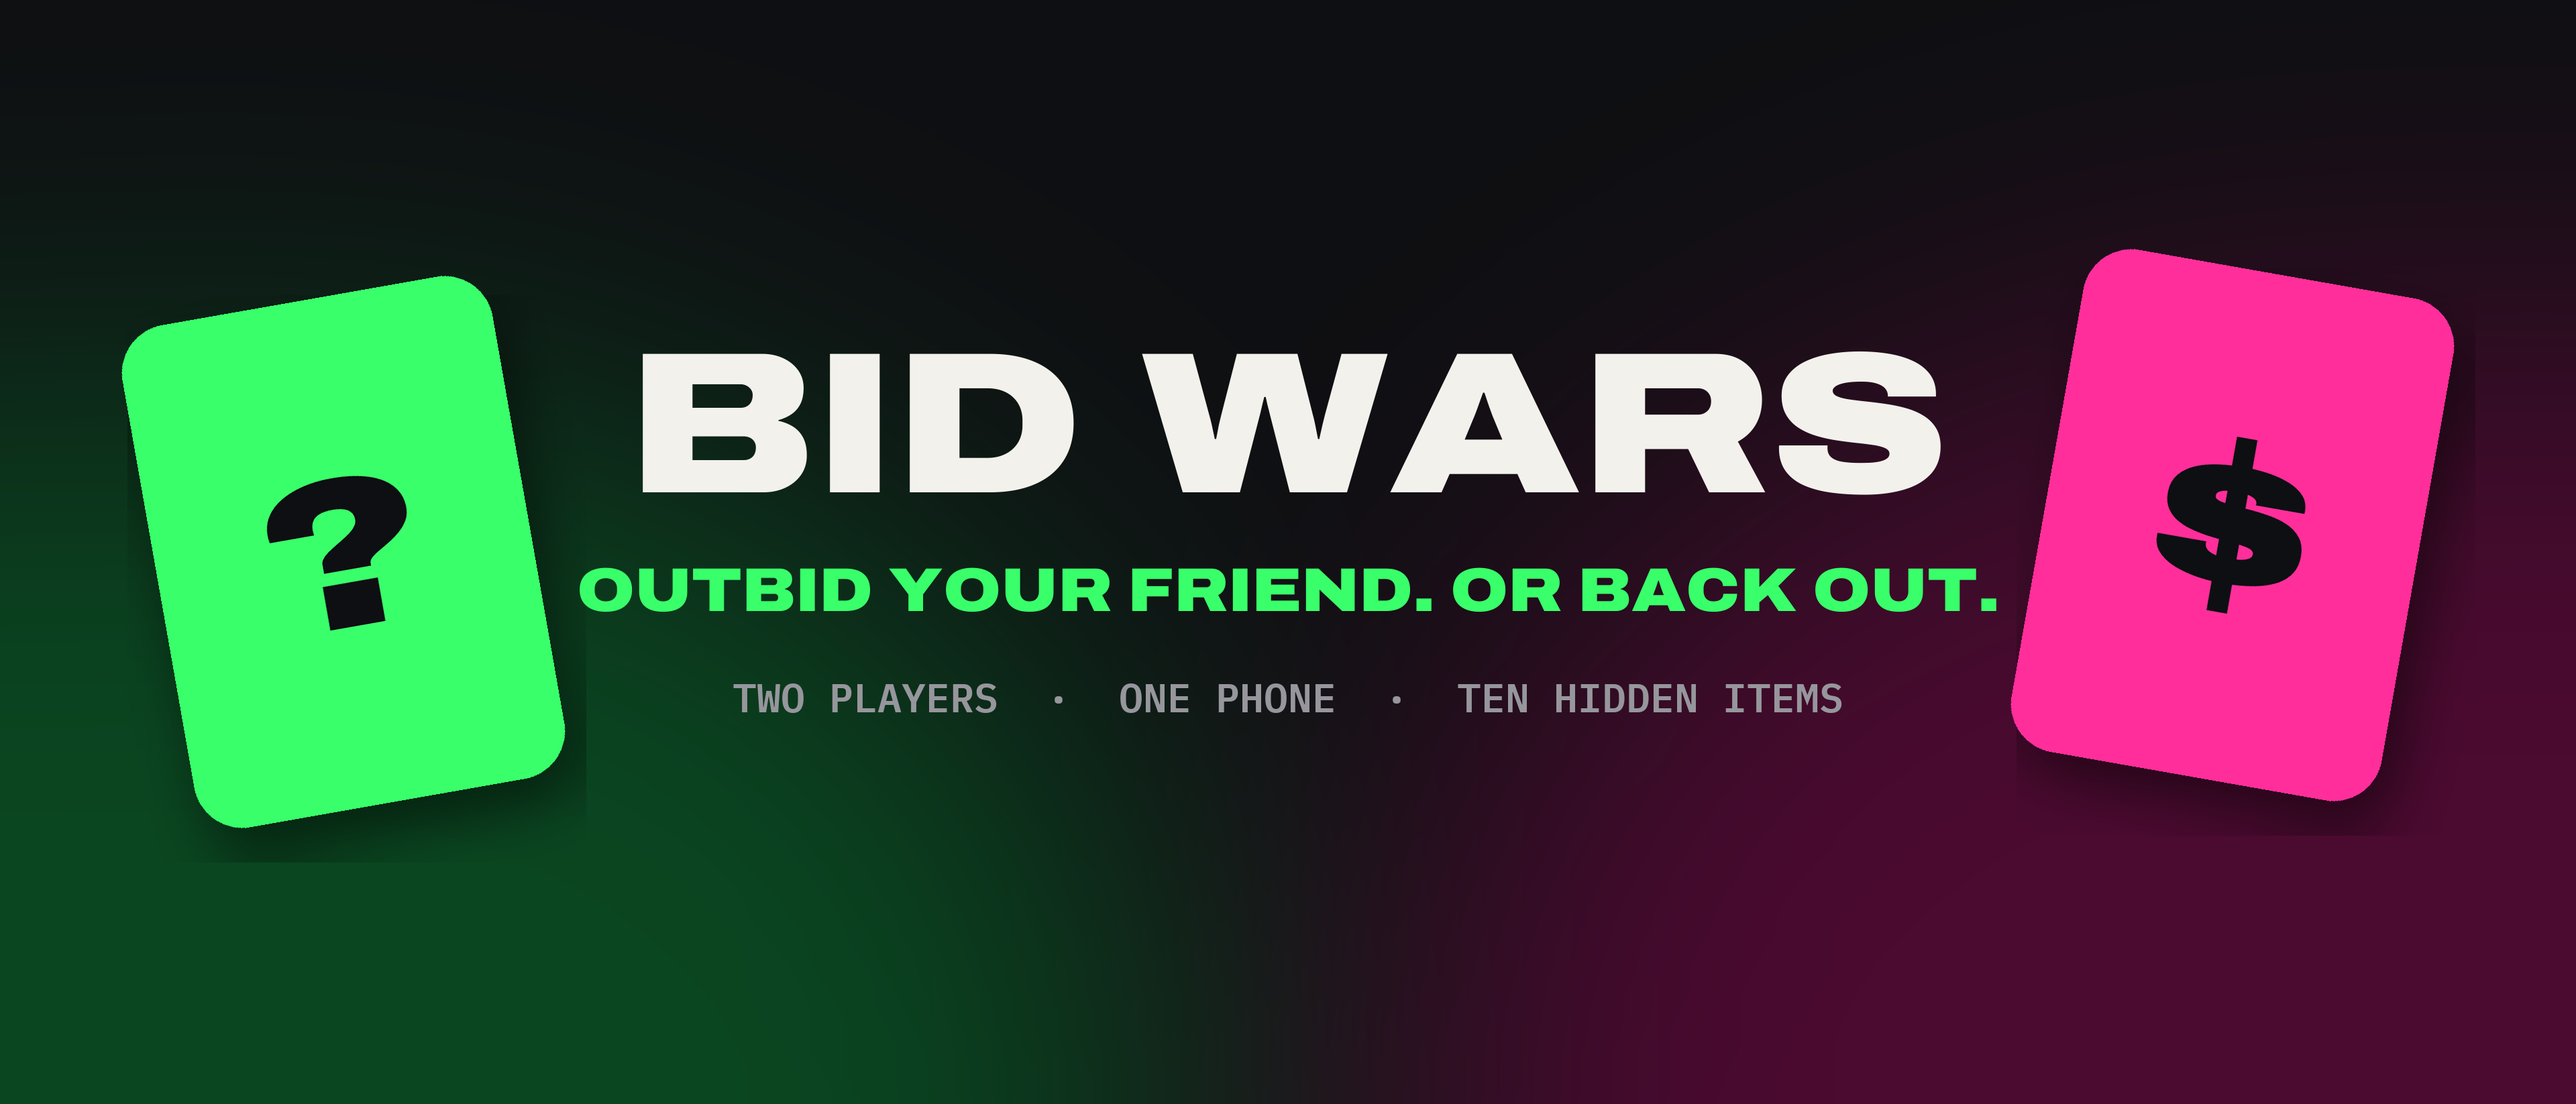
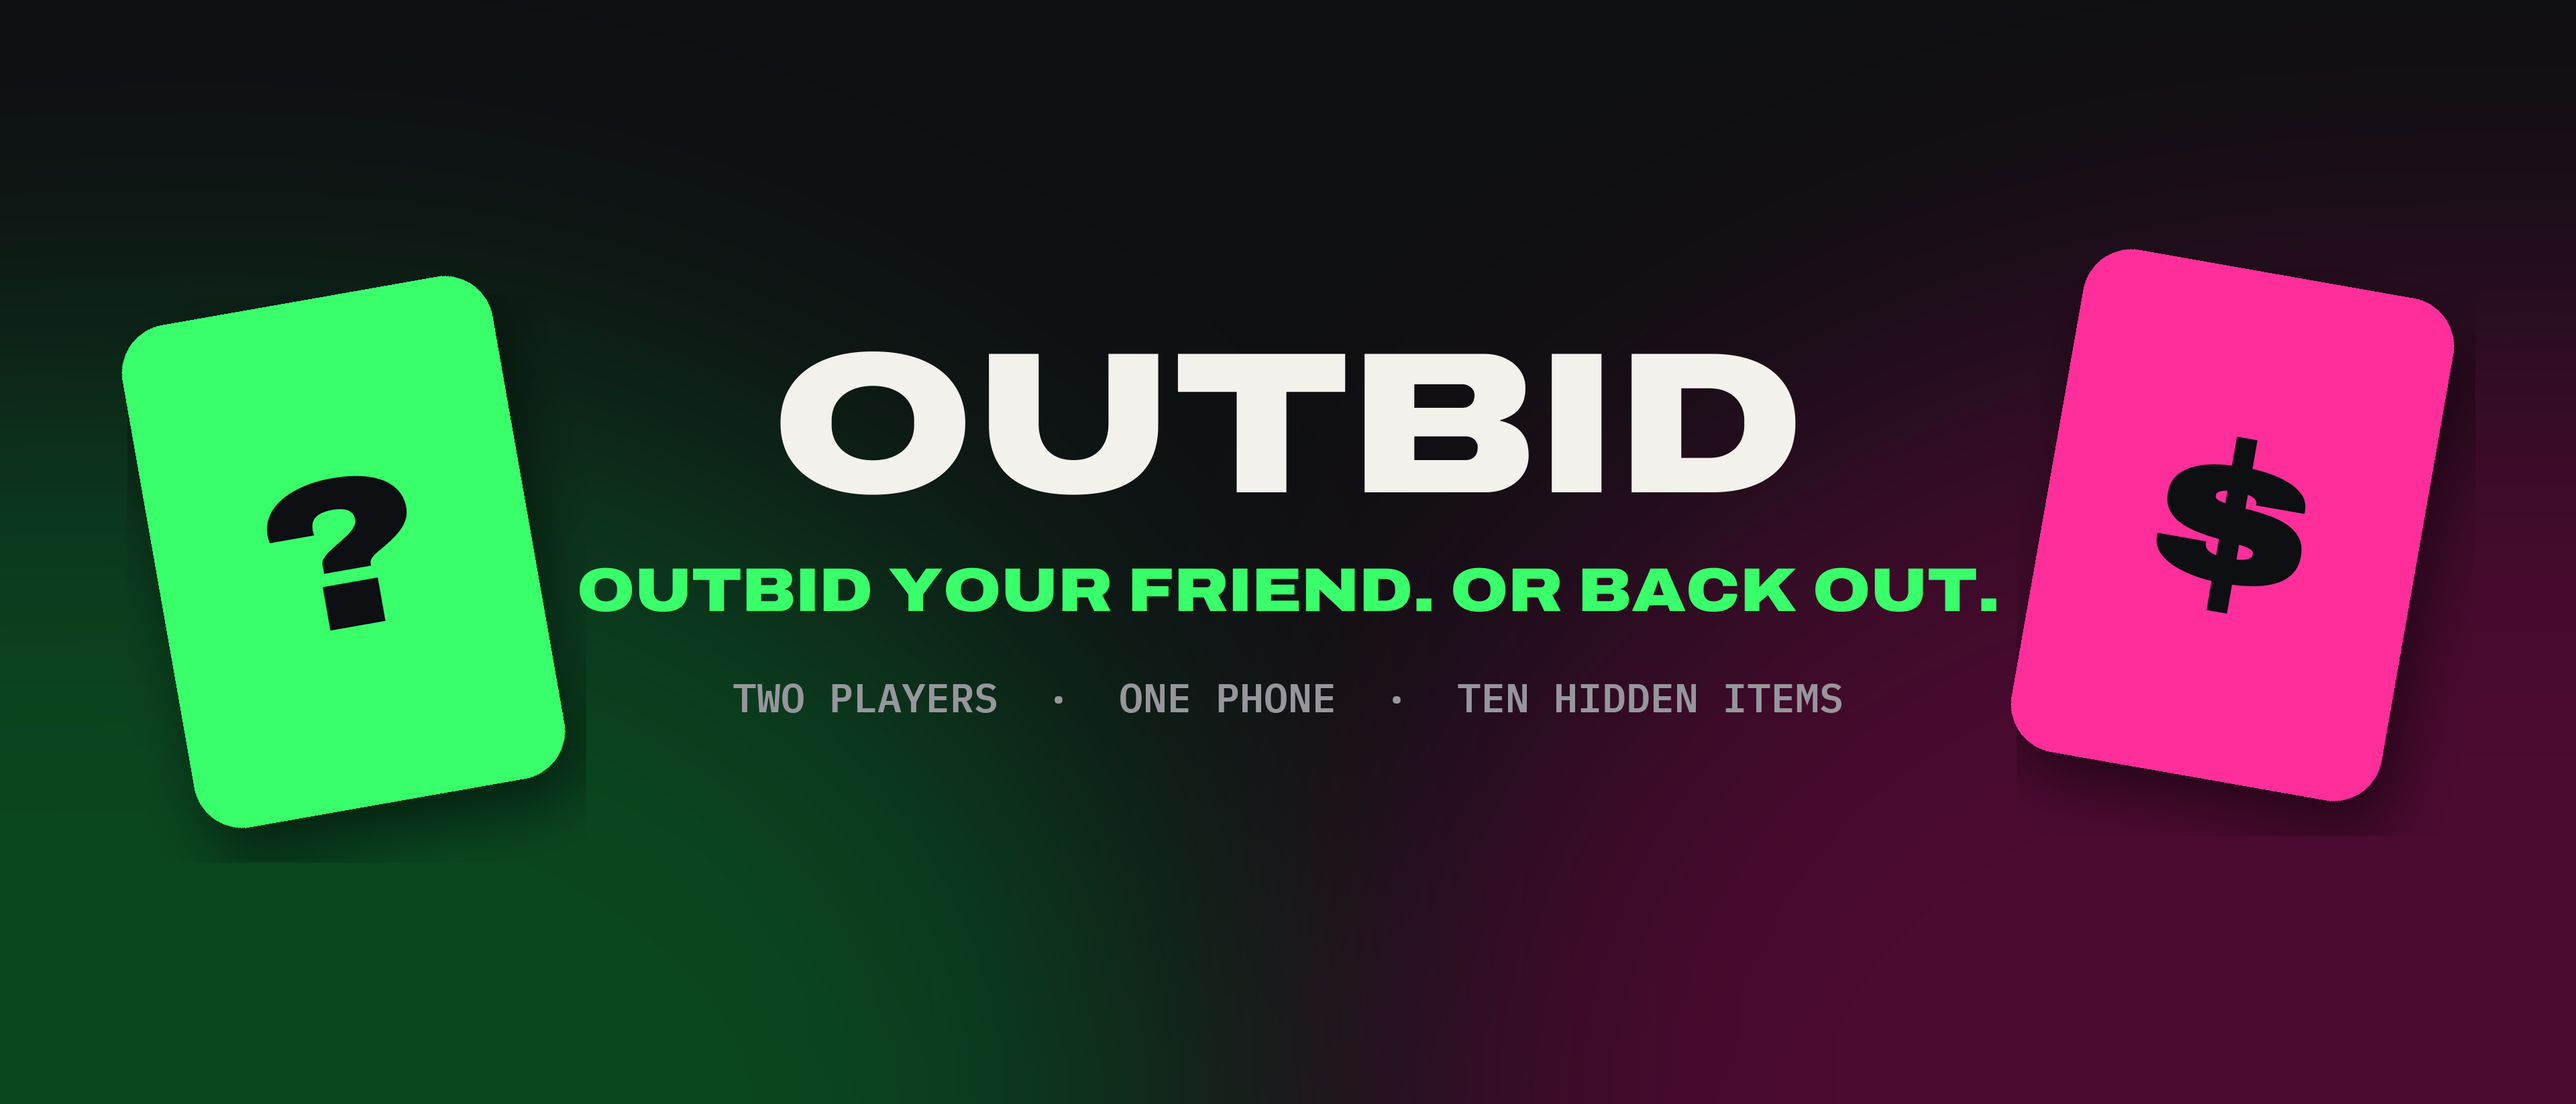
Store art with the Outbid name

Changed region(s): [[0.25, 0.3098, 0.75, 0.4648]]

diff --git a/design/store-creative/make.py b/design/store-creative/make.py
@@ -27,7 +27,7 @@ im=glow(W,H).convert('RGB'); d=ImageDraw.Draw(im)
 c1=card(560,760,GREEN,'?',10); c2=card(560,760,PINK,'$',-10)
 paste_shadow(im,c1,(170,400)); paste_shadow(im,c2,(W-170-c2.size[0],360))
 fw=font('Archivo-Expanded-Black.ttf',300)
-text_c(d,W/2,470,'BID WARS',fw,INK)
+text_c(d,W/2,470,'OUTBID',fw,INK)
 fs=font('Archivo-SemiExpanded-Black.ttf',92)
 text_c(d,W/2,830,'OUTBID YOUR FRIEND. OR BACK OUT.',fs,GREEN)
 fm=font('IBMPlexMono-SemiBold.ttf',60)
@@ -38,7 +38,7 @@ im.save('header-3840x1646.png',optimize=True)
 W,H=3840,2560
 im=glow(W,H).convert('RGB'); d=ImageDraw.Draw(im)
 fw=font('Archivo-Expanded-Black.ttf',210)
-text_c(d,W/2,140,'BID WARS',fw,INK)
+text_c(d,W/2,140,'OUTBID',fw,INK)
 fs=font('Archivo-SemiExpanded-Black.ttf',84)
 text_c(d,W/2,400,'THE TWO-PLAYER AUCTION PARTY GAME',fs,PINK)
 shots=['01-home','03-surprise','04-bidding','05-sold']
